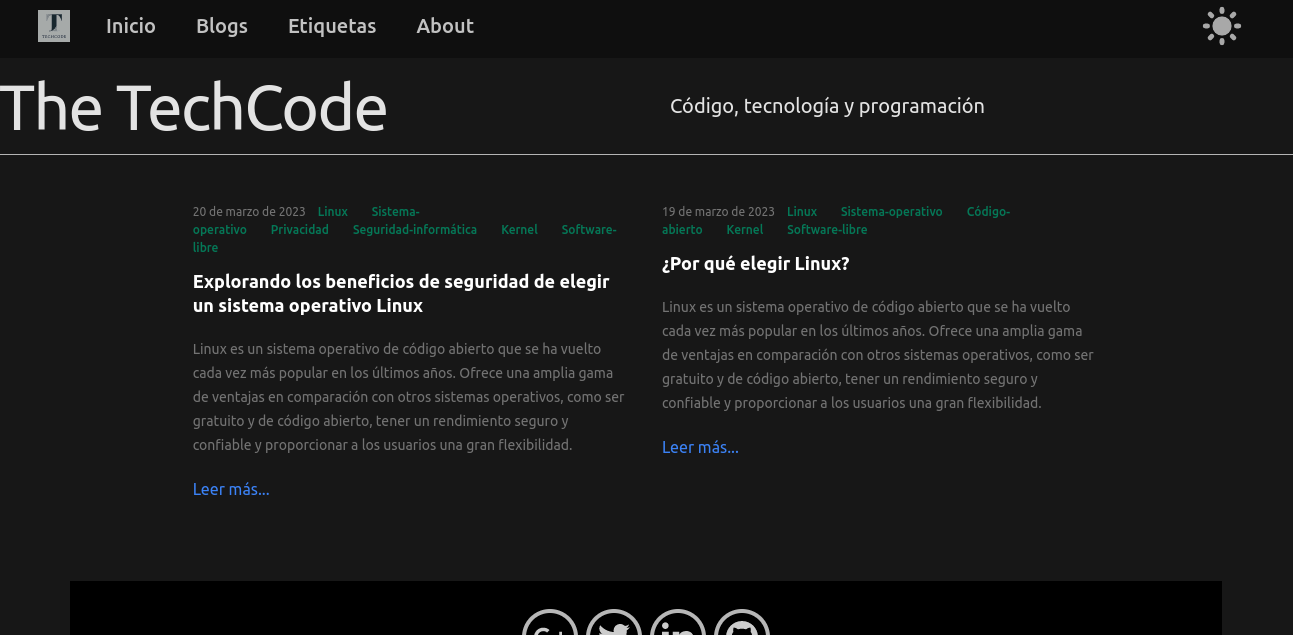
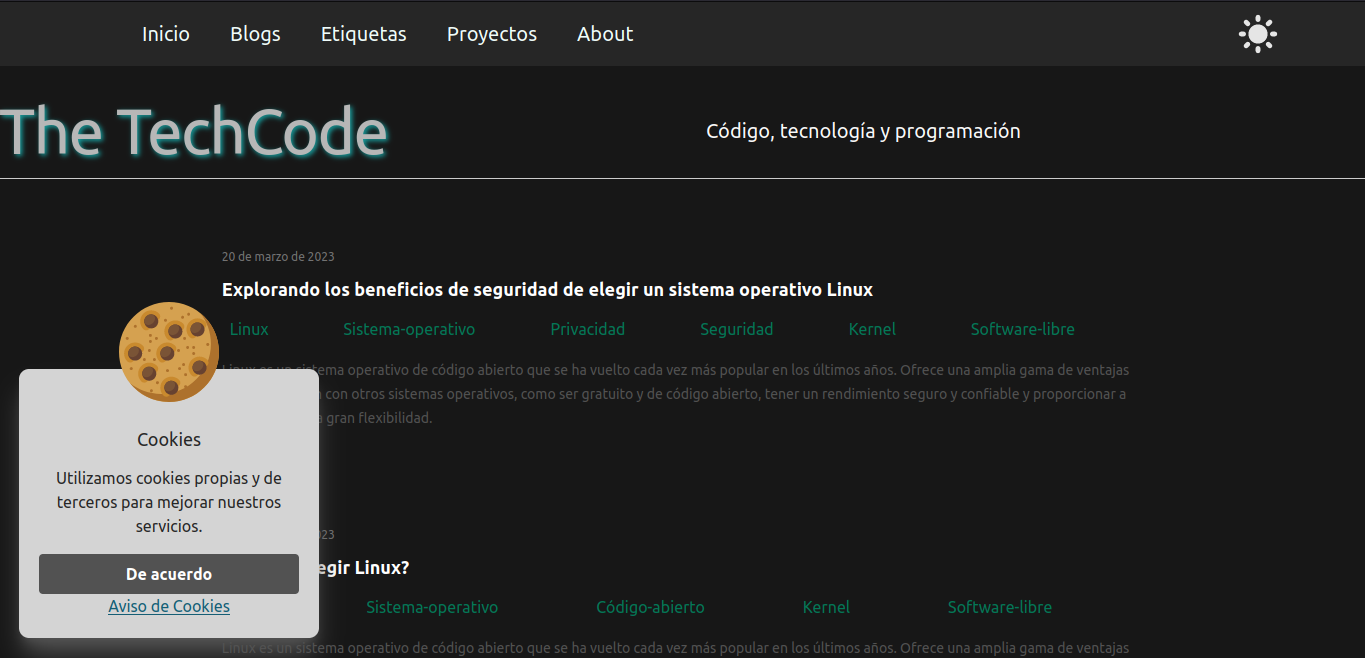
arreglos Seo I

diff --git a/components/Navbar.js b/components/Navbar.js
@@ -13,6 +13,7 @@ const navigation = [
   { name: 'Inicio', href: '/' },
   { name: 'Blogs', href: '/blog' },
   { name: 'Etiquetas', href: '/tags' },
+  { name: 'Proyectos', href: '/proyectos' },
   { name: 'About', href: '/sobre-mi' },
 
 ];
@@ -26,100 +27,100 @@ export default function Navbar({ children }) {
     <div className="" >
       <header  >
         <div className="fixed w-full top-0 z-10">
-        <Disclosure as="nav" className='bg-gray-800  '>
-          {({ open }) => (
-            <>
-              <div className="text-black dark:text-white  mx-auto max-w-7xl px-2 sm:px-6 lg:px-8">
-                <div className="relative flex items-center justify-between h-16">
-                  <div className="absolute inset-y-0 left-0 flex items-center sm:hidden">
-                    {/* Boton de menú de celular */}
-                    <Disclosure.Button className="text-blue-400 inline-flex items-center justify-center p-2 rounded-md dark:text-gray-400 hover:text-gray-500 hover:bg-gray-100 focus:outline-none focus:ring-2 focus:ring-inset focus:ring-indigo-500">
-                      <span className="sr-only">Abrir menú de inicio</span>
-                      {open ? (
-                        <XMarkIcon className="block h-6 w-6" aria-hidden="true" />
-                      ) : (
-                        <Bars3Icon className="block h-6 w-6" aria-hidden="true" />
-                      )}
-                    </Disclosure.Button>
-                  </div>
-                  <div className="flex flex-1 items-center justify-center sm:items-stretch sm:justify-start">
-                    <div className="flex flex-shrink-0 items-center mix-blend-s">
-                      <Link href="/" >
-                        <Image
-                          className="sm:block h-8 w-auto lg:hidden"
-                          src={siteMetadata.siteLogo}
-                          width={30}
-                          height={30}
-                          alt="techcode"
-                        />
-                        <Image
-                          className="hidden h-8 min-w-min w-auto lg:block"
-                          src={siteMetadata.siteLogo}
-                          width={30}
-                          height={30}
-                          alt="techcode"
-                        />
-                      </Link>
+          <Disclosure as="nav" className='bg-gray-800 '>
+            {({ open }) => (
+              <>
+                <div className="text-black dark:text-white  mx-auto max-w-7xl px-2 sm:px-6 lg:px-8">
+                  <div className="relative flex items-center justify-between h-16">
+                    <div className="absolute inset-y-0 left-0 flex items-center sm:hidden">
+                      {/* Boton de menú de celular */}
+                      <Disclosure.Button className="text-blue-400 inline-flex items-center justify-center p-2 rounded-md dark:text-gray-400 hover:text-gray-500 hover:bg-gray-100 focus:outline-none focus:ring-2 focus:ring-inset focus:ring-indigo-500">
+                        <span className="sr-only">Abrir menú de inicio</span>
+                        {open ? (
+                          <XMarkIcon className="block h-6 w-6" aria-hidden="true" />
+                        ) : (
+                          <Bars3Icon className="block h-6 w-6" aria-hidden="true" />
+                        )}
+                      </Disclosure.Button>
                     </div>
-                    <div className="hidden sm:block sm:ml-6">
-                      <div className="flex space-x-4">
-                        {navigation.map((item) => (
-                          <a
-                            key={item.name}
-                            href={item.href}
-                            className='transition ease-in-out duration-1000
+                    <div className="flex flex-1 items-center justify-center sm:items-stretch sm:justify-start w-full">
+                      <div className="flex flex-shrink-0 items-center mix-blend-s">
+                        <Link href="/" >
+                          <Image
+                            className="sm:block h-8 w-auto lg:hidden"
+                            src={siteMetadata.siteLogo}
+                            width={30}
+                            height={30}
+                            alt="techcode"
+                          />
+                          <Image
+                            className="hidden h-8 min-w-min w-auto lg:block"
+                            src={siteMetadata.siteLogo}
+                            width={30}
+                            height={30}
+                            alt="techcode"
+                          />
+                        </Link>
+                      </div>
+                      <div className="hidden sm:block sm:ml-6">
+                        <div className="flex space-x-4">
+                          {navigation.map((item) => (
+                            <a
+                              key={item.name}
+                              href={item.href}
+                              className='transition ease-in-out duration-1000
                             hover:border-b-2 hover:border-green-500
                             hover:text-green-400 border-b-2
                             border-gray-800 text-primary-50
                            hover:bg-gray-900 rounded-md px-3 
                             py-2 text-sm md:text-xl xl:text-xl 2xl:text-5xl 
                             font-sans'
-                            aria-current={item.current ? 'page' : undefined}
-                          >
-                            {item.name}
-                          </a>
-                        ))}
+                              aria-current={item.current ? 'page' : undefined}
+                            >
+                              {item.name}
+                            </a>
+                          ))}
+                        </div>
                       </div>
                     </div>
-                  </div>
-                  <div className="absolute inset-y-0 right-0 flex items-center justify-center pr-2 sm:static sm:inset-auto sm:ml-6 sm:pr-0">
-                    <ThemeSwitch />
+                    <div className="absolute inset-y-0 right-0 flex items-center justify-center pr-2 sm:static sm:inset-auto sm:ml-6 sm:pr-0">
+                      <ThemeSwitch />
+                    </div>
                   </div>
                 </div>
-              </div>
 
-              <Disclosure.Panel className="sm:hidden">
-                <div className="space-y-1 px-2 pt-2 pb-3 dark:text-white">
-                  {navigation.map((item) => (
-                    <Disclosure.Button
-                      key={item.name}
-                      as="a"
-                      href={item.href}
-                      className='transition ease-in-out duration-700
+                <Disclosure.Panel className="sm:hidden">
+                  <div className="space-y-1 px-2 pt-2 pb-3 dark:text-white">
+                    {navigation.map((item) => (
+                      <Disclosure.Button
+                        key={item.name}
+                        as="a"
+                        href={item.href}
+                        className='transition ease-in-out duration-700
                       hover:border-b-2 hover:border-gray-500 
                       border-b-2 border-gray-500 
                       text-white hover:bg-gray-100 hover:text-gray-900 
                       block rounded-md px-3 py-2 text-base font-medium'
-                      aria-current={item.current ? 'page' : undefined}
-                    >
-                      {item.name}
-                    </Disclosure.Button>
-                  ))}
-                </div>
-              </Disclosure.Panel>
-            </>
-          )}
-        </Disclosure>
+                        aria-current={item.current ? 'page' : undefined}
+                      >
+                        {item.name}
+                      </Disclosure.Button>
+                    ))}
+                  </div>
+                </Disclosure.Panel>
+              </>
+            )}
+          </Disclosure>
         </div>
-       
+
       </header>
       <div className="mt-20 w-full">
-       <Header />
+        <Header />
       </div>
       <main className="mt-3 mb-8 mx-auto my-auto">
         {children}
       </main>
-      
+
       <Footer />
     </div>
   );

diff --git a/components/Card.js b/components/Card.js
@@ -1,0 +1,59 @@
+import Link from './Link'
+import Image from './Image'
+
+const Card = ({ title, description, imgSrc, href }) => {
+    return (
+        <div className="flex justify-center">
+            <div
+                className={`${imgSrc && 'h-full'
+                    } block max-w-sm rounded-lg bg-gray- shadow-lg dark:bg-neutral-700`}>
+                {imgSrc &&
+                    (href ? (
+                        <Link href={href} aria-label={`Link to ${title}`}>
+                            <Image
+                                alt={title}
+                                src={imgSrc}
+                                className="rounded-t-lg"
+                                width={544}
+                                height={306}
+                            />
+                        </Link>
+                    ) : (
+                        <Image
+                            alt={title}
+                            src={imgSrc}
+                            className="rounded-t-lg"
+                            width={544}
+                            height={306}
+                        />
+                    ))
+                }
+                <div class="p-6">
+                    <h5
+                        class="mb-2 text-xl font-medium leading-tight text-neutral-800 dark:text-neutral-50">
+                        {href ? (
+                            <Link href={href} aria-label={`Link to ${title}`}>
+                                {title}
+                            </Link>
+                        ) : (
+                            title
+                        )}
+                    </h5>
+                    <p class="mb-4 text-base text-neutral-600 dark:text-neutral-200">
+                        {description}
+                    </p>
+                    {href && (
+                        <Link
+                            href={href}
+                            aria-label={`Link to ${title}`}
+                        >
+                            Ver más &rarr;
+                        </Link>
+                    )}
+
+                </div>
+            </div>
+        </div>
+    )
+}
+export default Card

diff --git a/pages/_app.js b/pages/_app.js
@@ -9,13 +9,13 @@ import React from 'react'
 import { GAScrip, logPageTime, logPageView } from '@/components/analitics/Google'
 import Script from 'next/script'
 import Cookies from '@/components/Cookies'
-import  Scrolbr  from '@/components/Scrolbr'
+import Scrolbr from '@/components/Scrolbr'
 
 const isDevelopment = process.env.NODE_ENV === 'development'
 const isSocket = process.env.SOCKET
 
 const handleSetCookie = async () => {
-  
+
   const cookieValue = Cookies.get('SL_G_WPT_TO');
   Cookies.set('SL_G_WPT_TO', cookieValue, { SameSite: 'None', Secure: true });
 };
@@ -23,33 +23,28 @@ const handleSetCookie = async () => {
 
 class App extends React.Component {
 
-  componentDidMount() {
+  /* componentDidMount() {
     handleSetCookie
     GAScrip()
     logPageView()
     const timeOnPage = new Date().getTime() - performance.timing.navigationStart;
     logPageTime('Page', 'Time', timeOnPage);
-  }
-
+  } */
   render() {
     const { Component, pageProps } = this.props
-
     return (
       <ThemeProvider attribute='class' defaultTheme={siteMetadata.theme}>
         <Head>
           <meta name="google-site-verification" content="f_QfdxqHEcMWPI9hLORb4DBUe8V3CqlbkcUblXOMu6Y" />
           <meta content="width=device-width, initial-scale=1" name="viewport" />
         </Head>
-        
         <Script
           async
           src="//pagead2.googlesyndication.com/pagead/js/adsbygoogle.js"
         ></Script>
         {isDevelopment && isSocket && <ClientReload />}
-        
-        
         <Navbar>
-        <Scrolbr/>
+          <Scrolbr />
           <Component {...pageProps} />
           <Cookies />
         </Navbar>

diff --git a/pages/proyectos.js b/pages/proyectos.js
@@ -1,0 +1,33 @@
+import projectsData from '@/data/projectsData'
+import Card from '@/components/Card'
+import { PageSEO }  from '@/components/SEO'
+import siteMetadata from '@/data/siteMetatdata'
+
+export default function Proyectos() {
+    return (
+        <>
+            <PageSEO title={`Proyecto | ${siteMetadata.author}`} description={siteMetadata.description} />
+            <div className="divide-y divide-gray-200 dark:divide-gray-700 w-5/6 justify-items-center mx-auto">
+                <div className="space-y-2 pt-6 pb-8 md:space-y-5">
+                    <h1 className="text-3xl font-extrabold leading-9 tracking-tight text-gray-900 dark:text-gray-100 sm:text-4xl sm:leading-10 md:text-6xl md:leading-14">
+                        Projects
+                    </h1>
+                    
+                </div>
+                <div className="container py-12">
+                    <div className="-m-4 flex flex-wrap">
+                        {projectsData.map((d) => (
+                            <Card
+                                key={d.title}
+                                title={d.title}
+                                description={d.description}
+                                imgSrc={d.imgSrc}
+                                href={d.href}
+                            />
+                        ))}
+                    </div>
+                </div>
+            </div>
+        </>
+    )
+}

diff --git a/data/projectsData.js b/data/projectsData.js
@@ -1,0 +1,11 @@
+const projectData =[
+    {
+        title: 'ThecCode',
+        description: `TechCode es un blog personal dedicado a la tecnología y el código. En este espacio, encontrarás contenido sobre desarrollo de software, programación, tecnología, noticias de la industria y más.
+        ¡Gracias por visitar TechCode! Espero que disfrutes del contenido y te animes a participar en la conversación. Si tienes alguna pregunta, comentario o sugerencia, no dudes en ponerte en contacto conmigo.`,
+        imgSrc: '/static/images/TechCode1.png',
+        href: 'https://thechcode.netlify.app/',
+    }
+]
+
+export default projectData

diff --git a/README.md b/README.md
@@ -1,4 +1,4 @@
-![techcode-banner](/public/static/images/TechCode1.png)
+![techcode-banner](/static/images/TechCode1.png)
 
 # TechCode
 
